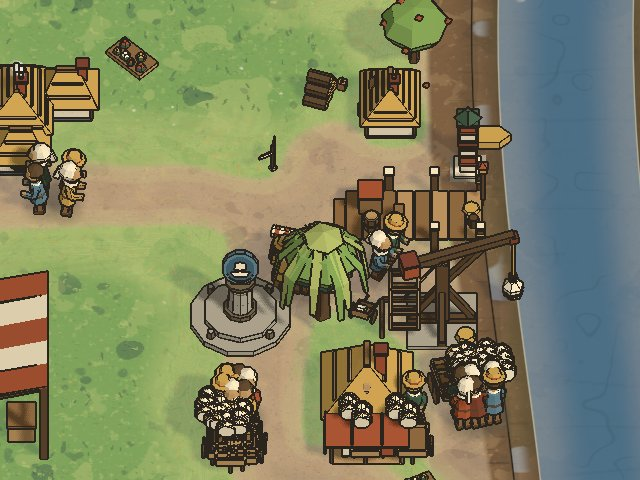
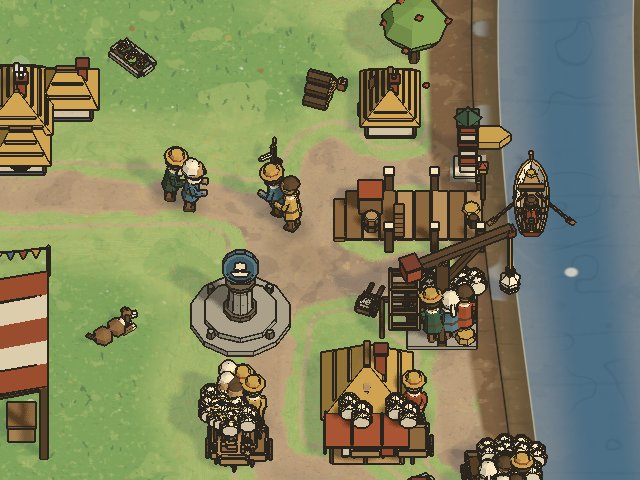
Snapshot: progress files before merging the book round

diff --git a/docs/plans/n3/assets-r3-lf-progress.md b/docs/plans/n3/assets-r3-lf-progress.md
@@ -78,3 +78,17 @@ Changes (pictures: `/home/user/tide-toll/build/n3/assets-audit/r3-lf-fix`):
 - Bunting: poles 2.0 m (was 2.6), Packed earth (was Mud); the flag shader's line moved with it.
 - Meadow (`ground.py`): pale blotches about a third less area (threshold 0.66 -> 0.70); flower specks twice the size.
 - Ripe field (`field.py`): the grain fills the ploughed patch's own outline, so no earth ring.
+- Second pass after the pictures: the bed's sprouts drew a grid of ink dots, so the bed is now a 5 cm Trail earth slab
+  with Bent grass sides and four flat rows (2 cm, Meadow and Cast-iron green), soft ink, 2.6 m long (50 tris). The
+  road rule took the hen coop away (no hens): the coop and the flower bed (the fallback kind when a woodpile or bench
+  finds no room) are exempt from it, and the coop goes to the second cottage that has room. Heron moved 1 cell into
+  the water (was on the bank's edge). Duck ripple: a broken ring of two arcs (16 segments), not a hard hoop. Birds 3.2x.
+- Pictures read (02:35 to 02:54, `r3-lf-fix`, `-fix2`, `-fix3`): bed reads as a light earth bed with green rows;
+  hens round their coop; ginger cat on its step; dog beside the stall (about 3 m off, on the stall's back side, not in
+  the open meadow); bunting short and tied over the stall; ducks a clear pair with pale wakes; heron white with dark
+  wings in the shallows; rocks clear of trees with the gull on top; gliders and the flock white birds with dark tips,
+  no ground specks; the flock caught mid-lift (`life-flock`); ripe field without the earth ring.
+- Not done: the woodpile right beside the road at the west cottage in town-view-level-8 is a simulation touch
+  (`TownTouches`, at the simulation's touch spot), not a garden: not moved. Washing line in life-cat: no washing line
+  is in the new life-cat picture (the gardens moved with the road rule), so not checked.
+- 02:55 whole ./check started (log `build/n3/lf-fix-check.log`).
